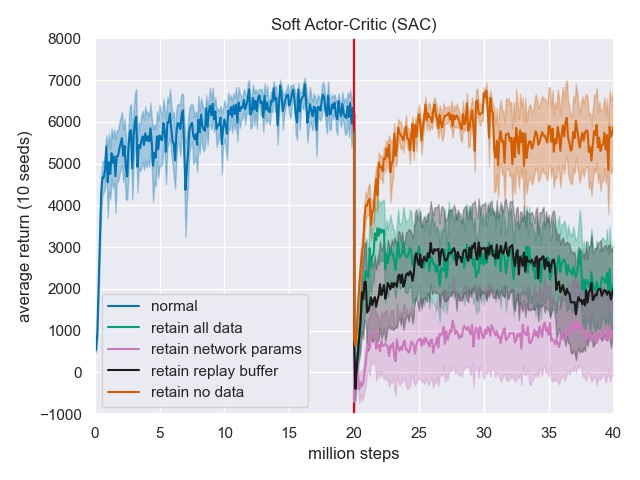
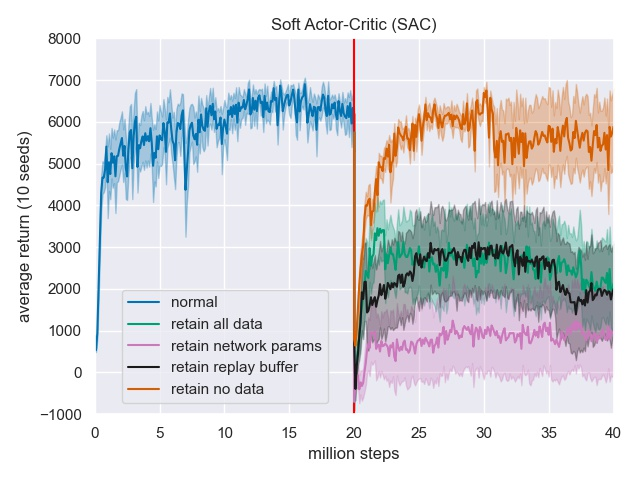
added v3 plots

Changed region(s): [[0.1562, 0.5938, 0.5, 0.8438]]

diff --git a/plot/presentation/presentation.py b/plot/presentation/presentation.py
@@ -223,14 +223,13 @@ def plot_experiment(directory):
         main.set_xlim(0, 40)
         zoom.set_xlim(zoom_min_x, zoom_max_x)
         main.set_ylim(-1000, 8000)
-        zoom.set_ylim(-1000, 8000)
+        zoom.set_ylim(zoom_min_y, zoom_max_y)
         main.set_xlabel("million steps")
         main.set_ylabel("average return\n(10 seeds)")
         main.set_title(title)
-        # zoom.set_title(title, loc="left", pad=20, position=position)
         plt.tight_layout()
         plt.savefig(plot_directory + "/{}_{}_sub.jpg".format(algorithm, ab_env))
-        plt.show()
+        # plt.show()
         plt.close()
 
     plot_zoom()
@@ -286,11 +285,11 @@ def plot_experiment(directory):
         plt.ylim(-1000, 8000)
         plt.xlabel("million steps")
         plt.ylabel("average return (10 seeds)")
-        plt.legend(loc=0)
-        plt.title(plot_title)
+        plt.legend(bbox_to_anchor=[0.465, 0.35], loc=0)
+        plt.title(title)
         plt.tight_layout()
         plt.savefig(plot_directory + "/{}_{}_all.jpg".format(algorithm, ab_env))
-        # plt.show()
+        plt.show()
         plt.close()
 
     plot_all_standard()
@@ -355,7 +354,7 @@ def plot_experiment(directory):
             plt.xlabel("million steps")
             plt.ylabel("average return (10 seeds)")
             plt.legend(loc=0)
-            plt.title(plot_title)
+            plt.title(title)
             plt.tight_layout()
             plt.savefig(plot_directory + "/{}_{}{}.jpg".format(algorithm, ab_env, subscript))
             # plt.show()
@@ -382,3 +381,4 @@ if __name__ == "__main__":
     sac_data_dir = "/mnt/DATA/shared/ant/faulty/sac"
 
     plot_experiment(os.path.join(sac_data_dir, "v1"))
+    plot_experiment(os.path.join(sac_data_dir, "v3"))
